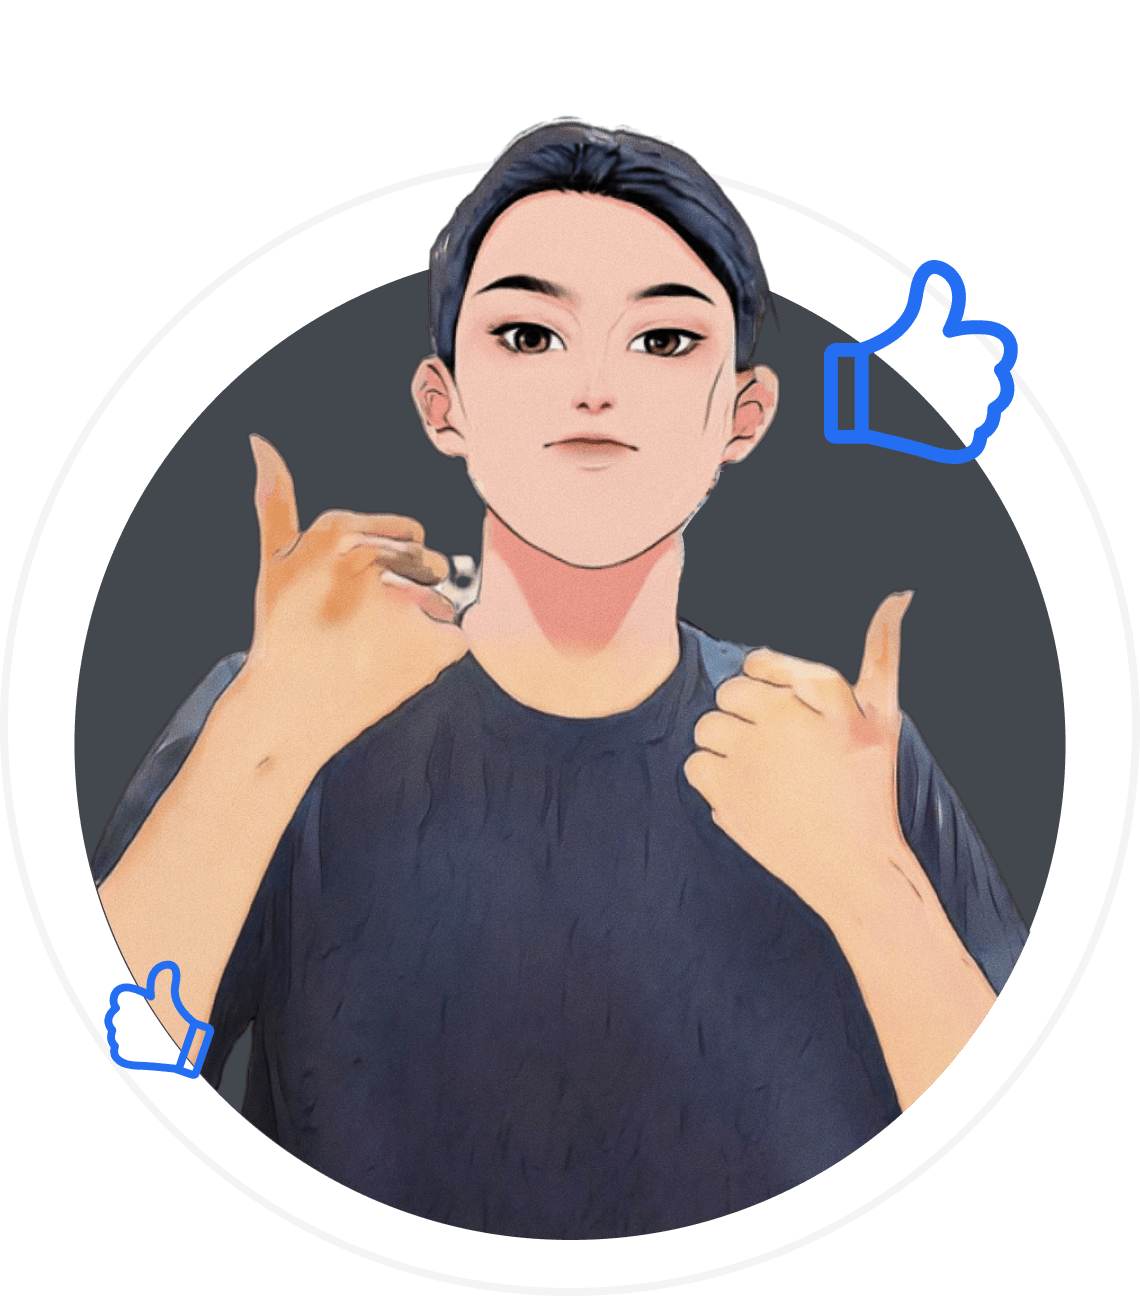
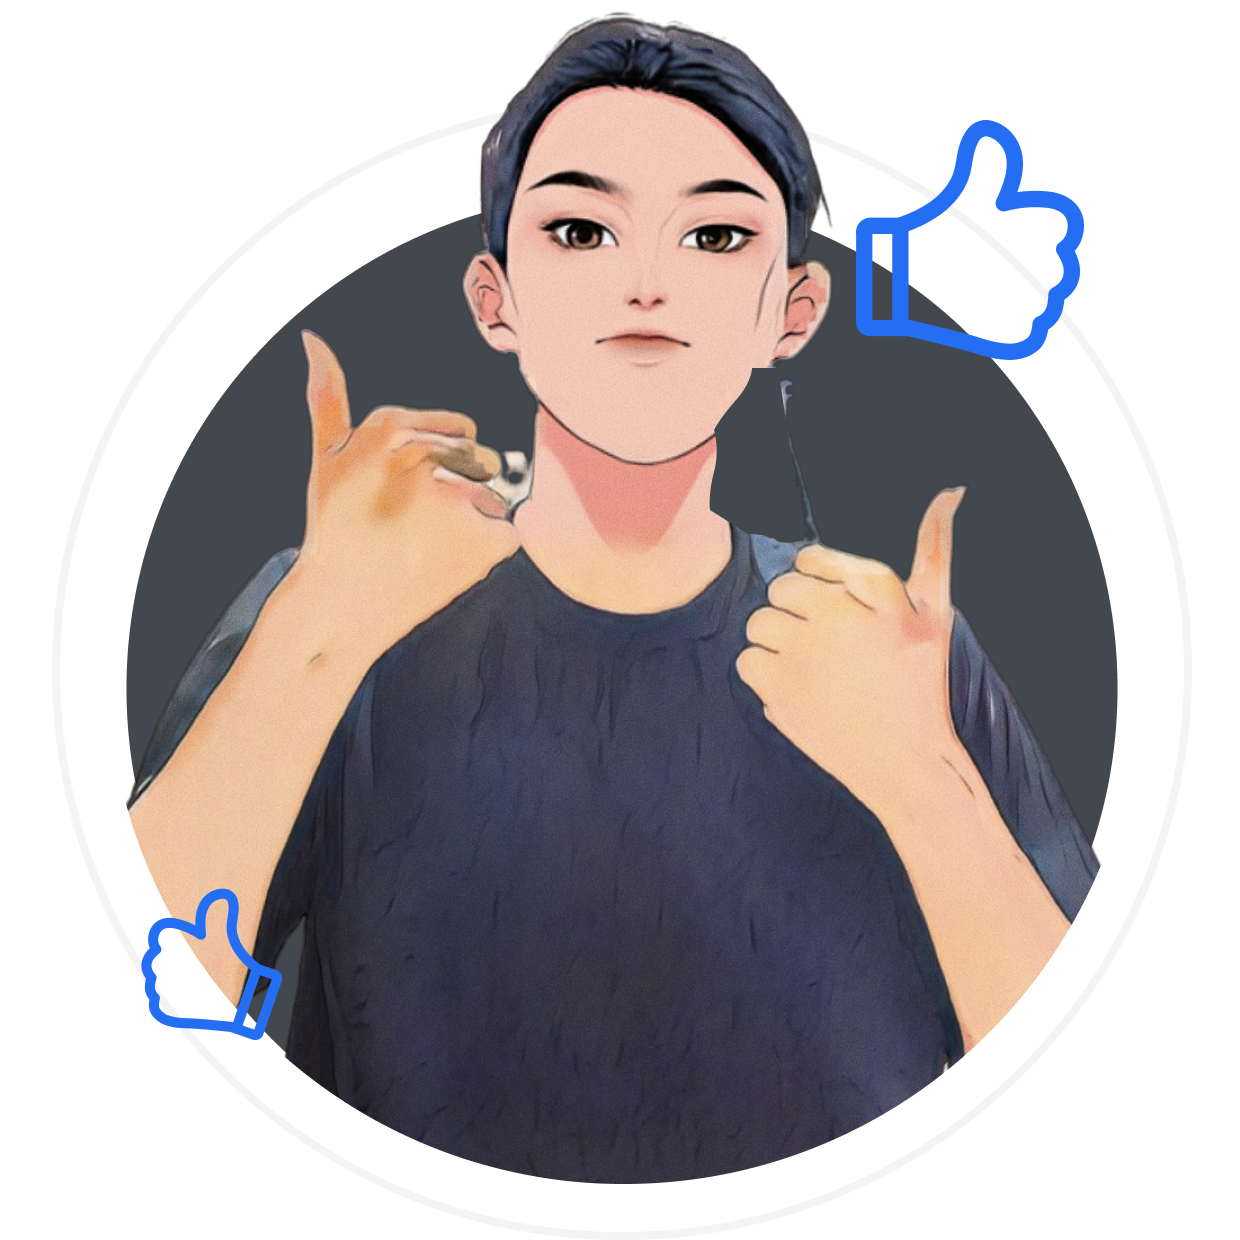
replace link n img

diff --git a/index.html b/index.html
@@ -147,7 +147,7 @@
 			      	<div class="overlay"></div>
 			        <div class="container-fluid p-0">
 			          <div class="row d-md-flex no-gutters slider-text js-fullheight align-items-center justify-content-end" data-scrollax-parent="true">
-			          	<div class="one-third img js-fullheight" style="background-image:url(images/imggg.svg);">
+			          	<div class="one-third img js-fullheight" style="background-image:url(images/imgggs.jpg);">
 			          	</div>
 			        	</div>
 			        </div>
@@ -219,7 +219,7 @@
         <div class="row no-gutters d-flex">
           <div class="col-md-6 col-lg-3 d-flex align-self-stretch ftco-animate">
             <div class="media block-6 services d-block">
-			  <img src="images/img-talk.svg" alt="avatar-icon" class="avatar-icon">
+			  <img src="images/img-talk.png" alt="avatar-icon" class="avatar-icon">
               <div class="media-body">
                 <h3 class="heading mb-3">Communicative</h3>
                 <p>Working effectively in a team, share ideas, and facilitate synergy to achieve common goals.</p>
@@ -228,7 +228,7 @@
           </div>
           <div class="col-md-6 col-lg-3 d-flex align-self-stretch ftco-animate">
             <div class="media block-6 services active d-block">
-			  <img src="images/img-manage.svg" alt="avatar-icon" class="avatar-icon">
+			  <img src="images/img-manage.png" alt="avatar-icon" class="avatar-icon">
               <div class="media-body">
                 <h3 class="heading mb-3">Management</h3>
                 <p>Present ideas clearly and effectively, and listen well to understand others perspectives.</p>
@@ -237,7 +237,7 @@
           </div>
           <div class="col-md-6 col-lg-3 d-flex align-self-stretch ftco-animate">
             <div class="media block-6 services d-block">
-			  <img src="images/img-collab.svg" alt="avatar-icon" class="avatar-icon">
+			  <img src="images/img-collab.png" alt="avatar-icon" class="avatar-icon">
               <div class="media-body">
                 <h3 class="heading mb-3">Collaborative</h3>
                 <p>Organize resources, time, and projects efficiently to achieve desired results.</p>
@@ -246,7 +246,7 @@
           </div>
           <div class="col-md-6 col-lg-3 d-flex align-self-stretch ftco-animate">
             <div class="media block-6 services active-2 d-block">
-			  <img src="images/img-analytic.svg" alt="avatar-icon" class="avatar-icon">
+			  <img src="images/img-analytic.png" alt="avatar-icon" class="avatar-icon">
               <div class="media-body">
                 <h3 class="heading mb-3">Analytic</h3>
                 <p>Accurately analyze information, identify patterns, and make decisions based on relevant data.</p>
@@ -324,7 +324,7 @@
 
     	<div class="container-fluid px-0 portfolio-entry">
     		<div class="row no-gutters d-md-flex justify-content-start text-wrapper">
-					<div class="one-half img js-fullheight" style="background-image: url('images/brm.svg');"></div>
+					<div class="one-half img js-fullheight" style="background-image: url('images/brm.jpg');"></div>
 					<div class="one-half half-text d-flex justify-content-end align-items-center ftco-animate">
 						<div class="text-2 align-items-start d-flex">
               				<div class="desc pt-5 pr-4 pl-4 pt-lg-0 pr-lg-5 pr-xl-0 pl-xl-0">
@@ -336,7 +336,7 @@
 	  							<p>Creating a website for the Bali Roller Marathon event which will be held open to international audiences in Bali.</p>
 								<p> 
 									<a href="404.html" class="custom-btn"><i class="icon-file-archive-o"></i>View Portfolio &emsp;</a>
-									<a href="https://play.google.com/store/apps/details?id=com.alandesa" target="_blank" class="custom-btn"><i class="icon-android"></i>Visit Apps</a>
+									<a href="404.html" target="_blank" class="custom-btn"><i class="icon-android"></i>Visit Apps</a>
 								</p>
   							</div>
 							</div>

diff --git a/work.html b/work.html
@@ -189,7 +189,7 @@
 							<div class="col-md-6 portfolio-wrap ftco-animate">
 								<div class="row align-items-center">
 									<div class="col-md-12 img-hover">
-										<a href="404.html"><img src="images/alans.svg" class="img-fluid"></a>
+										<a href="404.html"><img src="images/alans.jpg" class="img-fluid"></a>
 									</div>
 									<div class="col-md-12">
 										<div class="text">
@@ -216,7 +216,7 @@
 							<div class="col-md-6 portfolio-wrap ftco-animate">
 								<div class="row align-items-center">
 									<div class="col-md-12 img-hover">
-										<a href="404.html"><img src="images/s-kasir.svg" class="img-fluid"></a>
+										<a href="404.html"><img src="images/s-kasir.jpg" class="img-fluid"></a>
 									</div>
 									<div class="col-md-12">
 										<div class="text">
@@ -276,7 +276,7 @@
 							<div class="col-md-6 portfolio-wrap ftco-animate">
 								<div class="row align-items-center">
 									<div class="col-md-12 img-hover">
-										<a href="404.html"><img src="images/work-bmcm.svg" class="img-fluid"></a>
+										<a href="404.html"><img src="images/work-bmcm.jpg" class="img-fluid"></a>
 									</div>
 									
 									<div class="col-md-12">
